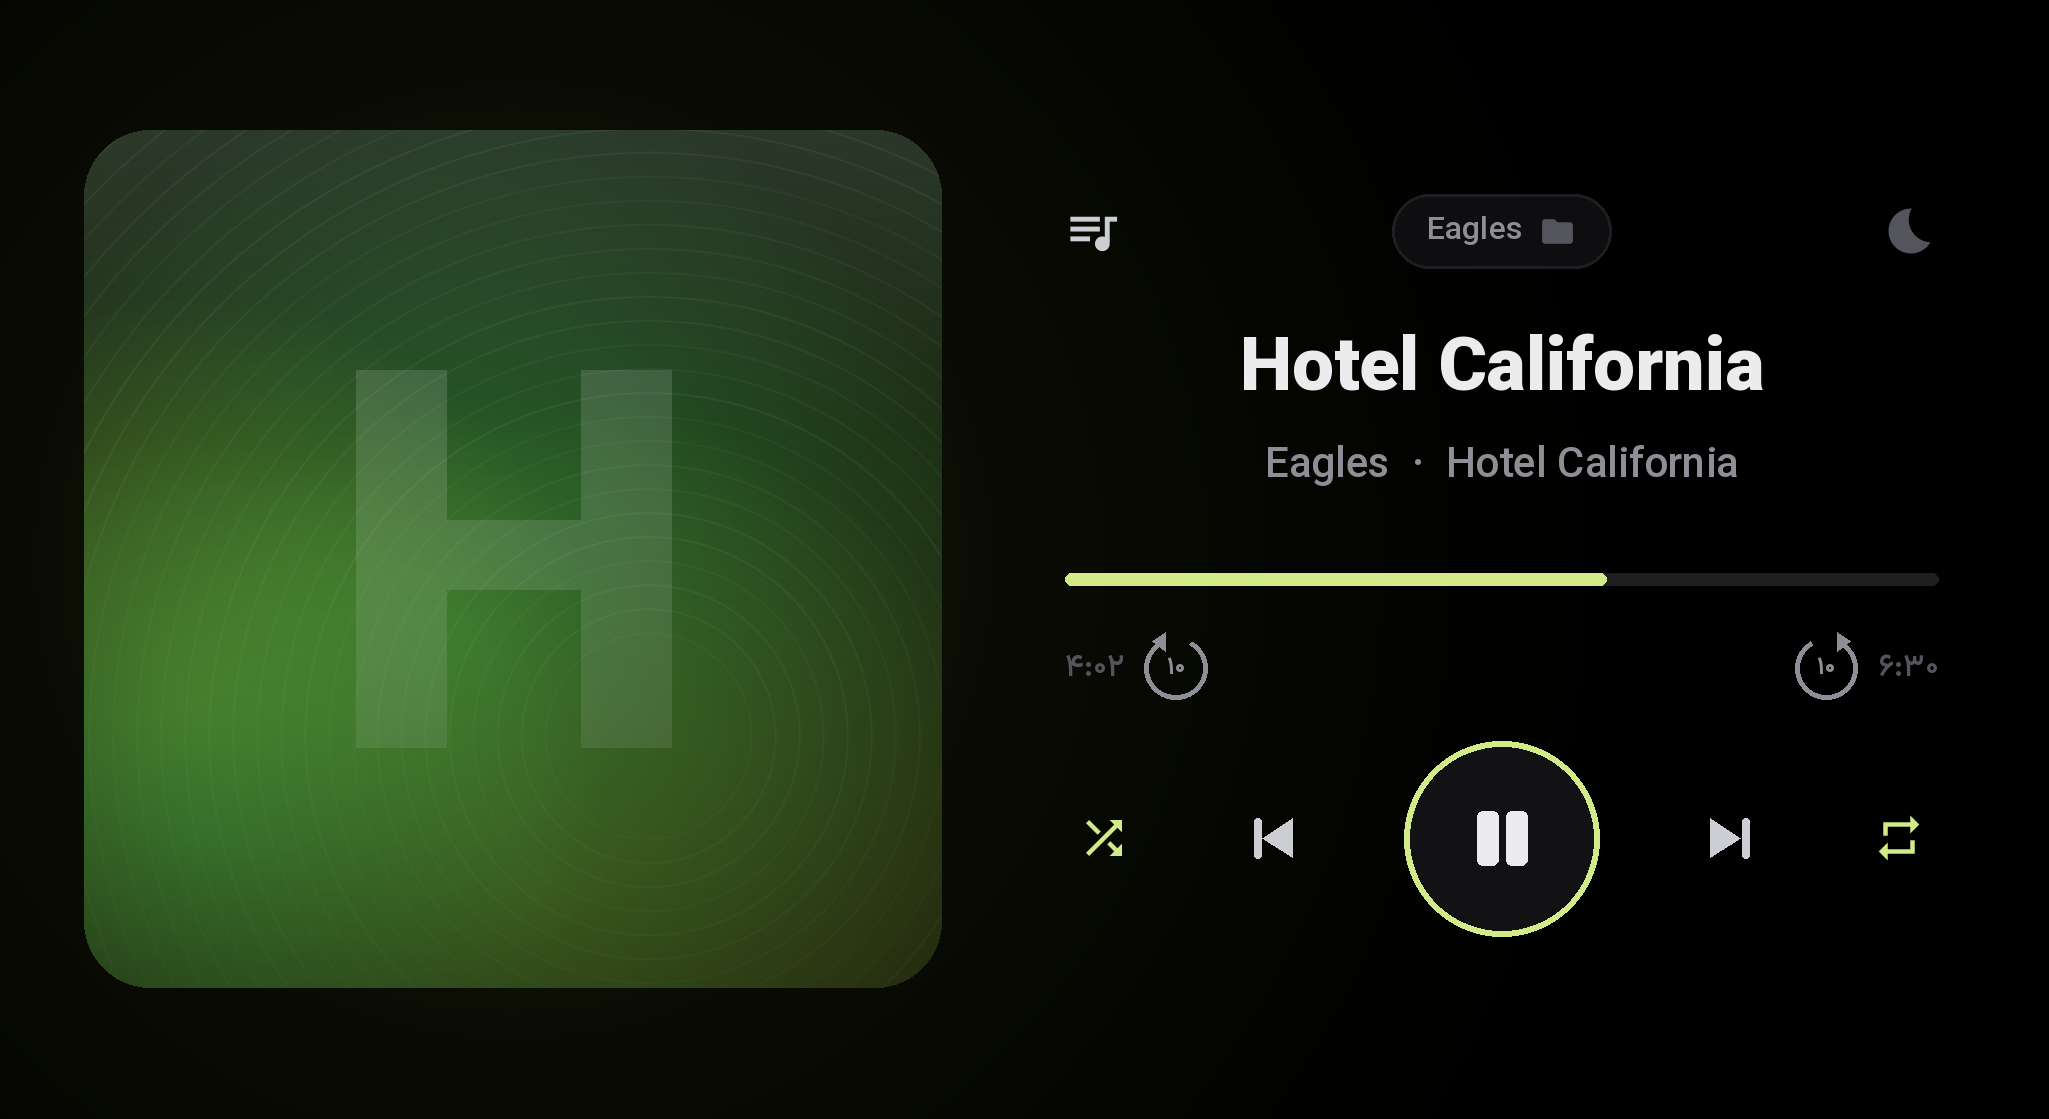
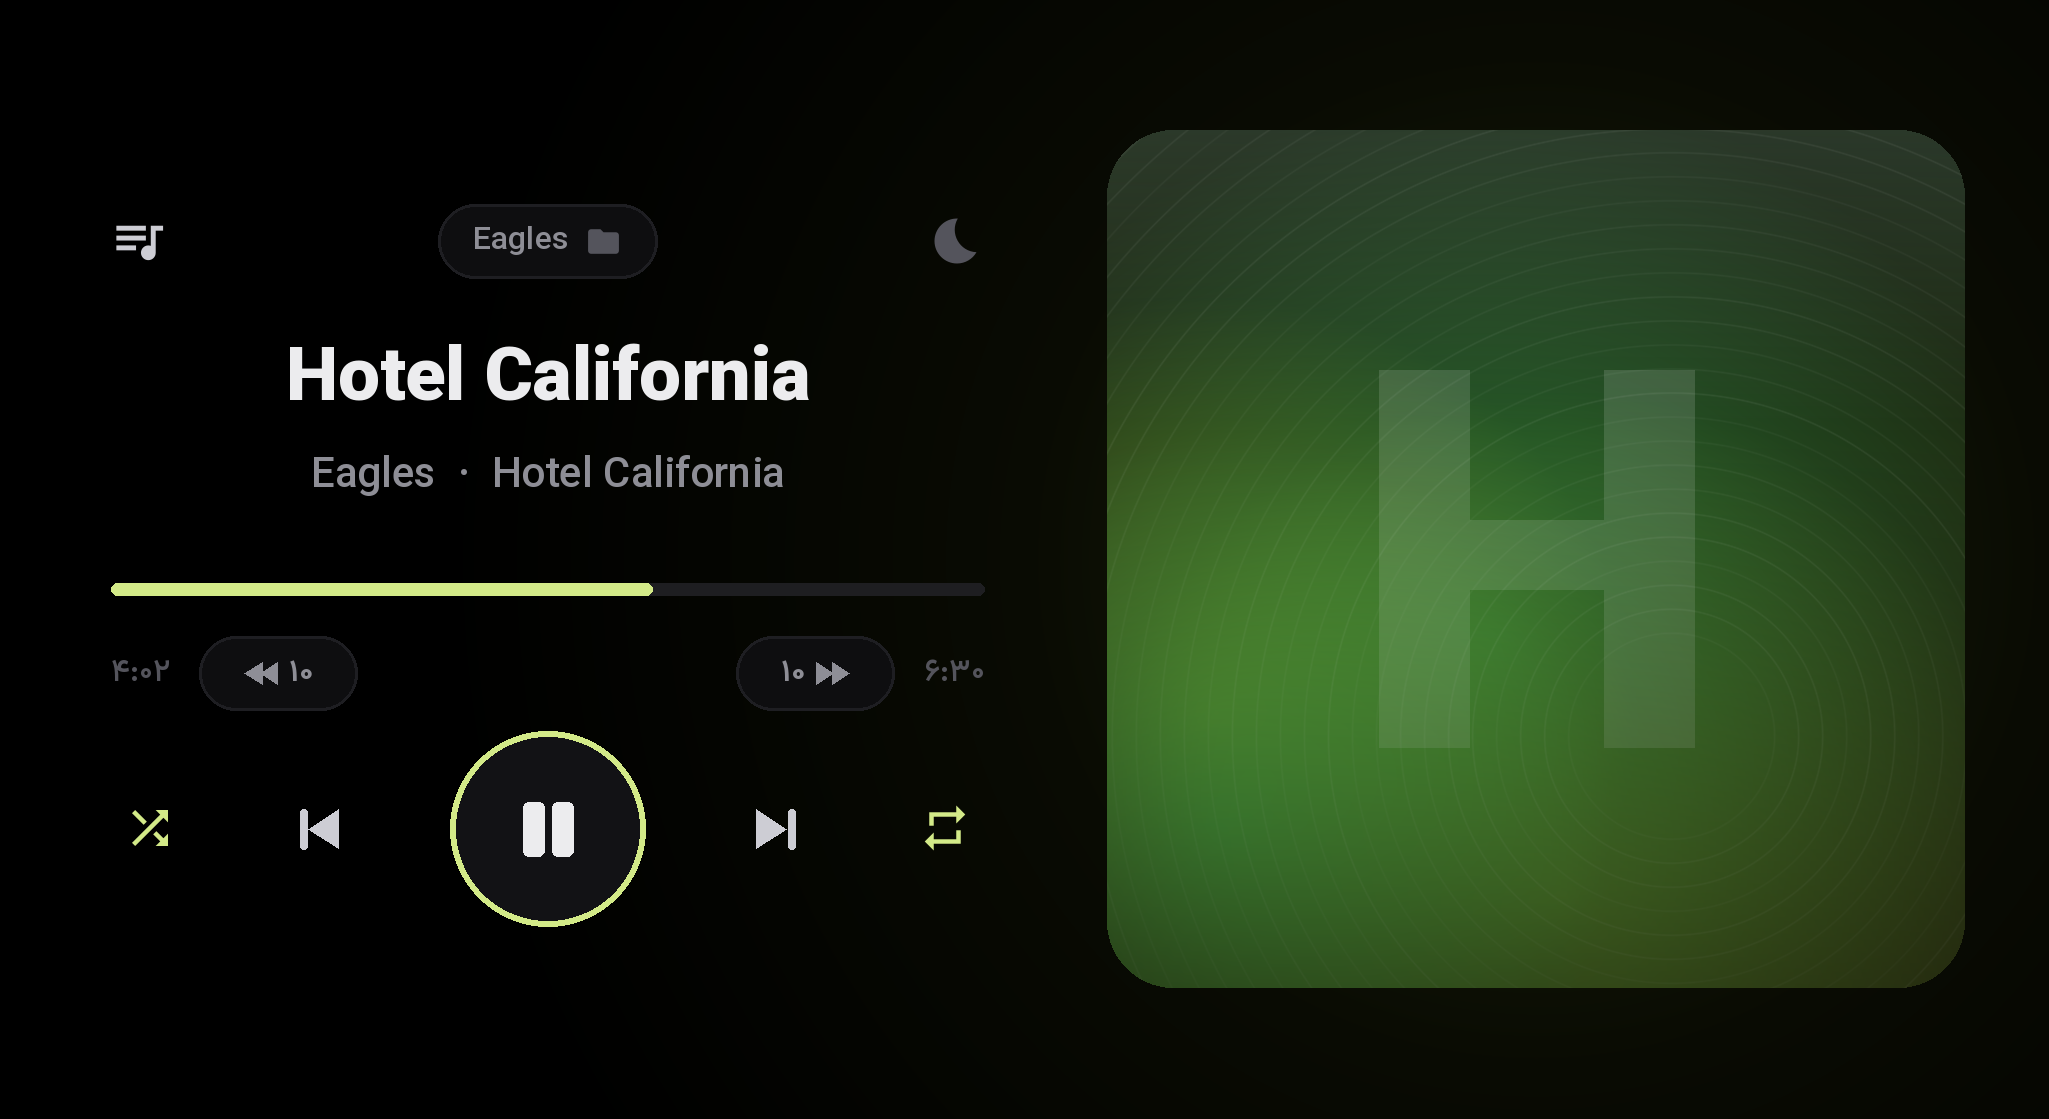
1.1.0: cover on the right, controls on the driver's side; redesigned ±10 s buttons
Claude-Session: https://claude.ai/code/session_011azxjQX34dZm2bbULXSmRn

diff --git a/app/src/main/java/ir/maniimani/geekmusic/SkipButton.java b/app/src/main/java/ir/maniimani/geekmusic/SkipButton.java
@@ -7,68 +7,85 @@ import android.graphics.Paint;
 import android.graphics.Path;
 import android.graphics.RectF;
 import android.graphics.Typeface;
+import android.graphics.drawable.GradientDrawable;
 import android.graphics.drawable.RippleDrawable;
-import android.graphics.drawable.ShapeDrawable;
-import android.graphics.drawable.shapes.OvalShape;
 import android.view.View;
 
-/** Circular-arrow "۱۰" button for jumping 10 s back / forward. */
+/**
+ * Pill-shaped "jump 10 seconds" button: a double chevron plus "۱۰".
+ *   back:    [ ◀◀ ۱۰ ]      forward: [ ۱۰ ▶▶ ]
+ * The chevrons always sit on the outer side, pointing the way time moves.
+ */
 final class SkipButton extends View {
 
-    private final Paint stroke = new Paint(Paint.ANTI_ALIAS_FLAG);
-    private final Paint fill = new Paint(Paint.ANTI_ALIAS_FLAG);
+    private final Paint ink = new Paint(Paint.ANTI_ALIAS_FLAG);
     private final Paint text = new Paint(Paint.ANTI_ALIAS_FLAG);
-    private final RectF oval = new RectF();
-    private final Path head = new Path();
+    private final Path chevrons = new Path();
     private final boolean forward;
+    private final float d;
 
     SkipButton(Context c, boolean forward, int color, int ripple, Typeface face) {
         super(c);
         this.forward = forward;
-        float d = c.getResources().getDisplayMetrics().density;
-        stroke.setStyle(Paint.Style.STROKE);
-        stroke.setStrokeWidth(1.8f * d);
-        stroke.setStrokeCap(Paint.Cap.ROUND);
-        stroke.setColor(color);
-        fill.setColor(color);
+        d = c.getResources().getDisplayMetrics().density;
+        ink.setColor(color);
+        ink.setStyle(Paint.Style.FILL);
+        ink.setStrokeJoin(Paint.Join.ROUND);
         text.setColor(color);
         text.setTypeface(face);
         text.setTextAlign(Paint.Align.CENTER);
-        setBackground(new RippleDrawable(ColorStateList.valueOf(ripple), null, new ShapeDrawable(new OvalShape())));
+
+        GradientDrawable bg = new GradientDrawable();
+        bg.setColor(MainActivity.C_SURFACE);
+        bg.setStroke(Math.max(1, Math.round(d)), MainActivity.C_STROKE);
+        bg.setCornerRadius(100 * d);
+        GradientDrawable mask = new GradientDrawable();
+        mask.setColor(0xFFFFFFFF);
+        mask.setCornerRadius(100 * d);
+        setBackground(new RippleDrawable(ColorStateList.valueOf(ripple), bg, mask));
         setClickable(true);
         setContentDescription(forward ? "۱۰ ثانیه جلو" : "۱۰ ثانیه عقب");
     }
 
     @Override
-    protected void onMeasure(int w, int h) {
-        super.onMeasure(w, h);
-        int s = Math.min(getMeasuredWidth(), getMeasuredHeight());
-        setMeasuredDimension(s, s);
-    }
-
-    @Override
     protected void onDraw(Canvas c) {
-        float s = Math.min(getWidth(), getHeight());
-        float cx = getWidth() / 2f, cy = getHeight() / 2f;
-        float r = s * 0.30f;
-        oval.set(cx - r, cy - r, cx + r, cy + r);
-        // arc with a gap at the top where the arrow head sits
-        float start = forward ? -60f : -120f;
-        float sweep = forward ? 300f : -300f;
-        c.drawArc(oval, start, sweep, false, stroke);
-        // arrow head at the end of the gap (top)
-        double a = Math.toRadians(start);
-        float hx = cx + (float) (r * Math.cos(a)), hy = cy + (float) (r * Math.sin(a));
-        float hs = s * 0.09f;
-        head.reset();
-        float dir = forward ? 1f : -1f;
-        head.moveTo(hx + dir * hs * 0.9f, hy);
-        head.lineTo(hx - dir * hs * 0.5f, hy - hs);
-        head.lineTo(hx - dir * hs * 0.5f, hy + hs);
-        head.close();
-        c.drawPath(head, fill);
-        text.setTextSize(s * 0.24f);
+        float w = getWidth(), h = getHeight();
+        float cy = h / 2f;
+        float th = h * 0.30f;                 // chevron height
+        float tw = th * 0.78f;                // single chevron width
+        float gap = th * 0.08f;
+        float group = tw * 2 - gap;           // two overlapping chevrons
+        text.setTextSize(h * 0.42f);
+        float textW = text.measureText("۱۰");
+        float space = h * 0.16f;
+        float total = group + space + textW;
+        float x0 = (w - total) / 2f;
+
+        float chevX, textX;
+        if (forward) {
+            textX = x0 + textW / 2f;
+            chevX = x0 + textW + space;
+        } else {
+            chevX = x0;
+            textX = x0 + group + space + textW / 2f;
+        }
+
+        chevrons.reset();
+        for (int i = 0; i < 2; i++) {
+            float left = chevX + i * (tw - gap);
+            if (forward) {
+                chevrons.moveTo(left, cy - th / 2f);
+                chevrons.lineTo(left + tw, cy);
+                chevrons.lineTo(left, cy + th / 2f);
+            } else {
+                chevrons.moveTo(left + tw, cy - th / 2f);
+                chevrons.lineTo(left, cy);
+                chevrons.lineTo(left + tw, cy + th / 2f);
+            }
+            chevrons.close();
+        }
+        c.drawPath(chevrons, ink);
         float ty = cy - (text.descent() + text.ascent()) / 2f;
-        c.drawText("۱۰", cx, ty, text);
+        c.drawText("۱۰", textX, ty, text);
     }
 }

diff --git a/app/src/main/java/ir/maniimani/geekmusic/MainActivity.java b/app/src/main/java/ir/maniimani/geekmusic/MainActivity.java
@@ -492,9 +492,9 @@ public class MainActivity extends Activity implements PlayerService.Listener, Li
         LinearLayout.LayoutParams tl = new LinearLayout.LayoutParams(ViewGroup.LayoutParams.WRAP_CONTENT, ViewGroup.LayoutParams.WRAP_CONTENT);
         tl.leftMargin = dp(9);
         timeRow.addView(tElapsed, tl);
-        timeRow.addView(back10, new LinearLayout.LayoutParams(dp(42), dp(42)));
+        timeRow.addView(back10, pill(0));
         timeRow.addView(new View(this), new LinearLayout.LayoutParams(0, 1, 1f));
-        timeRow.addView(fwd10, new LinearLayout.LayoutParams(dp(42), dp(42)));
+        timeRow.addView(fwd10, pill(0));
         LinearLayout.LayoutParams tr = new LinearLayout.LayoutParams(ViewGroup.LayoutParams.WRAP_CONTENT, ViewGroup.LayoutParams.WRAP_CONTENT);
         tr.rightMargin = dp(9);
         timeRow.addView(tTotal, tr);
@@ -567,6 +567,16 @@ public class MainActivity extends Activity implements PlayerService.Listener, Li
         int pad = landscape ? dp(28) : dp(22);
         content.setPadding(pad, pad, pad, pad);
         content.setOrientation(landscape ? LinearLayout.HORIZONTAL : LinearLayout.VERTICAL);
+        // Landscape: controls on the left (driver's side in a left-hand-drive car), cover on the right.
+        // Portrait: cover on top.
+        content.removeAllViews();
+        if (landscape) {
+            content.addView(info);
+            content.addView(art);
+        } else {
+            content.addView(art);
+            content.addView(info);
+        }
 
         int artSize = landscape ? (int) Math.min(h - 2f * pad, w * 0.42f) : (int) Math.min(w - 2f * pad, h * 0.38f);
         artSize = Math.max(artSize, dp(120));
@@ -575,7 +585,7 @@ public class MainActivity extends Activity implements PlayerService.Listener, Li
         LinearLayout.LayoutParams ilp;
         if (landscape) {
             ilp = new LinearLayout.LayoutParams(0, ViewGroup.LayoutParams.WRAP_CONTENT, 1f);
-            ilp.leftMargin = dp(32);
+            ilp.rightMargin = dp(32);
         } else {
             ilp = new LinearLayout.LayoutParams(ViewGroup.LayoutParams.MATCH_PARENT, ViewGroup.LayoutParams.WRAP_CONTENT);
             ilp.topMargin = dp(20);
@@ -583,7 +593,7 @@ public class MainActivity extends Activity implements PlayerService.Listener, Li
         info.setLayoutParams(ilp);
 
         applyScale(1f);
-        int infoW = landscape ? (w - 2 * pad - artSize - ilp.leftMargin) : (w - 2 * pad);
+        int infoW = landscape ? (w - 2 * pad - artSize - ilp.rightMargin) : (w - 2 * pad);
         int availH = landscape ? (h - 2 * pad) : (h - 2 * pad - artSize - ilp.topMargin);
         info.measure(View.MeasureSpec.makeMeasureSpec(Math.max(1, infoW), View.MeasureSpec.EXACTLY),
                 View.MeasureSpec.makeMeasureSpec(0, View.MeasureSpec.UNSPECIFIED));
@@ -619,8 +629,11 @@ public class MainActivity extends Activity implements PlayerService.Listener, Li
 
         sizeIcon(btnLibrary, 44 * k, 24 * k, 0);
         sizeIcon(btnMoon, 44 * k, 22 * k, 0);
-        size(back10, dp(42 * k), dp(42 * k));
-        size(fwd10, dp(42 * k), dp(42 * k));
+        size(back10, dp(64 * k), dp(30 * k));
+        size(fwd10, dp(64 * k), dp(30 * k));
+        ((LinearLayout.LayoutParams) back10.getLayoutParams()).leftMargin = dp(12 * k);
+        ((LinearLayout.LayoutParams) fwd10.getLayoutParams()).rightMargin = dp(12 * k);
+        topMargin(timeRow, dp(4 * k));
         sizeIcon(btnShuffle, 46 * k, 22 * k, 0);
         sizeIcon(btnPrev, 64 * k, 32 * k, 14 * k);
         LinearLayout.LayoutParams plp = (LinearLayout.LayoutParams) btnPlay.getLayoutParams();
@@ -756,6 +769,10 @@ public class MainActivity extends Activity implements PlayerService.Listener, Li
         lp.gravity = Gravity.CENTER_HORIZONTAL;
         lp.topMargin = top;
         return lp;
+    }
+
+    private LinearLayout.LayoutParams pill(int unused) {
+        return new LinearLayout.LayoutParams(dp(64), dp(30));
     }
 
     private LinearLayout.LayoutParams sq(int sizeDp, int leftMarginDp) {

diff --git a/CHANGELOG.md b/CHANGELOG.md
@@ -1,5 +1,9 @@
 # Changelog
 
+## 1.1.0
+- کاور رفت سمت راست و دکمهها اومدن سمت راننده (Cover moved to the right; controls on the driver's side)
+- طراحی جدید دکمههای ۱۰ ثانیه جلو و عقب (Redesigned ±10 s buttons)
+
 ## 1.0.0
 - اولین نسخه: پلیر موزیک فلش و کارت حافظه با تم مشکی کامل (First release: pure-black USB / SD music player)
 - پوشهبندی دقیقاً مثل خود فلش، بهعلاوهی همهی آهنگها، خوانندهها، آلبومها و جستجو (Real folder tree plus songs, artists, albums and search)
